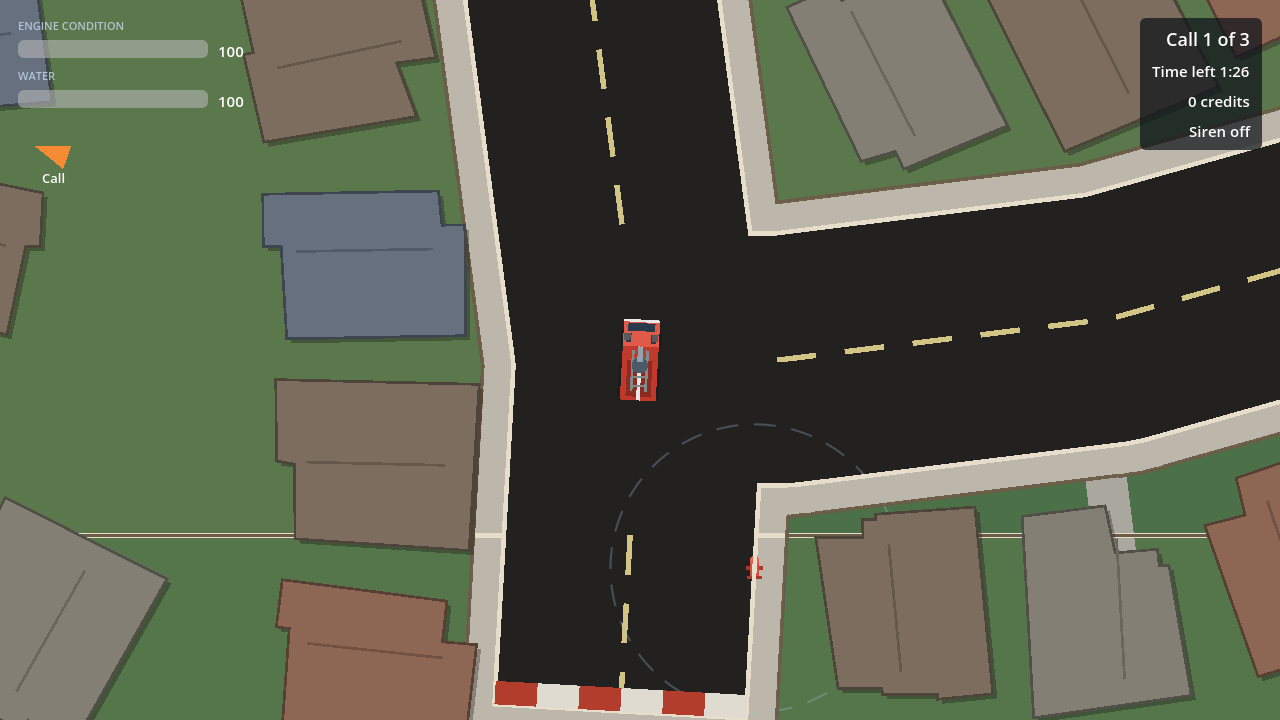
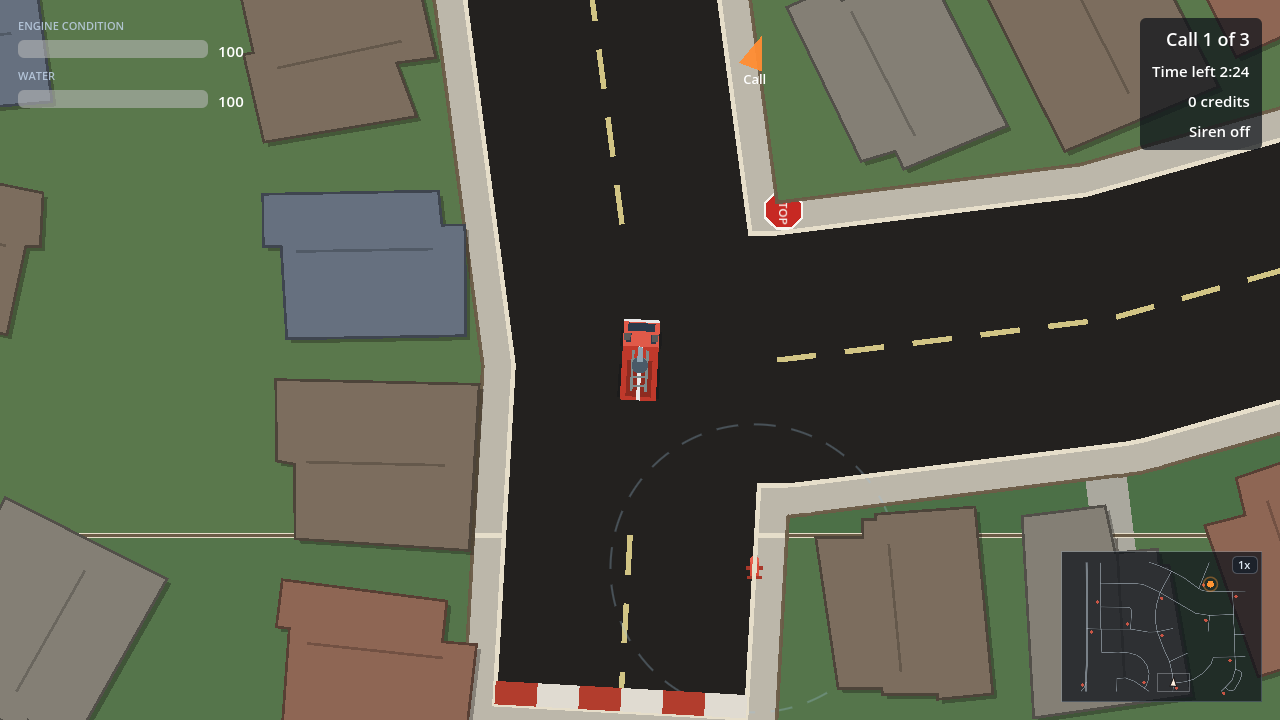
Frame time, the documents, and the screenshots the design side reads
Measured on this machine, windowed, on Windsor with the engine in the middle of
the map and the hard cap of 24 cars placed around it, 900 frames a run:

    no traffic          process 5.07 ms   physics 0.16 ms   total 5.23 ms
    traffic at the cap  process 6.43 ms   physics 0.78 ms   total 7.21 ms

1.98 ms, right on the budget, and 1.36 of it was the PROCESS side rather than
the simulation. That was one line: TrafficCar._process called queue_redraw()
every frame for every car. A car's body is drawn in its own local space, so
moving and turning it costs nothing to redraw; Godot keeps the canvas item and
changes its transform. Twenty-four cars' worth of polygons were being re-issued
sixty times a second for no visible difference at all. A car now redraws only
when its indicator lamps actually change state, which is about four times a
second while it is yielding and never while it is not.

After, over three runs:

    no traffic          total 5.81, 5.85, 6.34 ms
    traffic at the cap  total 5.77, 6.19, 6.51 ms

The process figure is noisy to about six tenths of a millisecond on this machine
and the delta is now inside that noise. The clean number is the physics side,
which is the simulation itself: 0.15 ms to 0.82-1.08 ms, so traffic at the cap
costs about 0.8 ms of physics and nothing measurable in process. Well under the
budget, from just under it.

STATUS.md is current, including the whole new balance table. It is 115 lines,
[…]

diff --git a/STATUS.md b/STATUS.md
@@ -19,14 +19,17 @@ default viewport, `canvas_items` stretch with `expand`. One autoload,
 | Lane network | `LaneGraph`: two directional lanes per segment, Bezier turns across junctions, U-turns only at dead ends. Both maps strongly connected. |
 | Junction control | Signals where the widest arm is tertiary or above or the junction has four arms; stop signs on the minor arms otherwise. Windsor 6 signals / 14 stop junctions, Elm Grove 16 signals. |
 | Signals | `TrafficSignals`: one clock for the whole map, opposing arms share a phase, green / amber / all-red. Pauses with the game. |
-| Driving | `TruckController`: arcade throttle and heading-relative steering, impact damage squared in the top of the speed range, camera shake on a hit. |
-| Water and fire | `WaterSystem` (tank, turret, stream, refill), `FireIncident` (health and escalation kept separate). |
+| Preemption | With the siren on inside 900 route units, a signalled junction ahead clears its cross arms and gives the engine's arm a green, four seconds later. Holds two seconds after the engine is past, then rejoins the cycle at the next phase. |
+| Traffic | `TrafficCar` and `TrafficSystem`: cars on the lane network at a class speed with a following gap, obeying lights, stop signs, priority to the right and the box junction rule. Solid to the engine, never to each other. Pull over for the siren, with one driver in ten flawed and one in five courteous, all from a per-shift seed. |
+| Driving | `TruckController`: arcade throttle and heading-relative steering, impact damage squared in the top of the speed range, camera shake on a hit. Hitting a car costs 0.4 of the wall rule and speed by how square the hit was. |
+| Water and fire | `WaterSystem` (tank, AUTOMATIC turret, stream, refill), `FireIncident` (health and escalation kept separate). No aim and no spray key; water is spent only into a fire. |
 | Hydrants | `Hydrant`: automatic hookup at a creep inside the ring, hose flies out, snaps when the truck drives away. No key. |
 | Session | `GameSession`, `DispatchManager`, `SaveManager`: three calls a shift, sequential dispatch, credits banked per call, one tank upgrade, save file. |
-| Screen | `GameUI` (HUD, home menu, map select, Data and Credits, results, shop), `Minimap` with its own zoom, `IncidentIndicator` off-screen arrow, `FollowCamera` north-up with lead and overscan. |
+| Screen | `GameUI` (HUD, home menu, map select, Data and Credits, results, shop, contact glyph), `Minimap` with its own zoom, `IncidentIndicator` off-screen arrow, `FollowCamera` north-up, leading two seconds of travel clamped to a third of the screen, with overscan. |
 | Tools | `import_osm.gd` (deterministic), `regenerate_map.gd`, `measure_scale.gd`, `validate_map.gd`, `capture_screens.gd`. |
 
-Not built: traffic, pedestrians, audio, any second real area, iPhone or touch.
+Not built: pedestrians, audio, any second real area, iPhone or touch, and any
+upgrade that changes how traffic behaves.
 
 ## Checks
 
@@ -34,8 +37,8 @@ Not built: traffic, pedestrians, audio, any second real area, iPhone or touch.
     godot --headless --path . --script res://tests/run_physics_tests.gd
     godot --headless --path . --script res://tools/validate_map.gd
 
-Green at 9cd79b0: 102 unit methods / 4,552 assertions, 211 physics checks,
-2 maps validated. Godot on this machine is
+Green on `task/traffic-and-turret`: 111 unit methods / 4,777 assertions, 288
+physics checks, 2 maps validated. Godot on this machine is
 `C:\Users\james\Downloads\Godot_v4.7.2-stable_win64.exe\Godot_v4.7.2-stable_win64_console.exe`.
 
 The screenshot pack must be run windowed, never headless:
@@ -48,62 +51,49 @@ The screenshot pack must be run windowed, never headless:
 |---|---|
 | Task | Traffic, signal preemption, automatic turret, handoff documents |
 | Owner | Claude Code |
-| Branch | `task/traffic-and-turret` |
+| Branch | `task/traffic-and-turret`, all six parts done, pull request open |
 | Base | `master` at 9cd79b0 |
+| Waiting on | James's playtest, then the merge |
 
 ## GameBalance values
 
-`GameBalance.gd` is the authority; this table is kept in step with it.
+`GameBalance.gd` is the authority and carries the reasoning for every number;
+this is the list, kept in step with it. Values the handoff specified are marked
+S, values invented here are marked I, and a value that has MOVED from what the
+handoff said carries both.
 
-| Value | Section | Source |
-|---|---|---|
-| `forward_max_speed` = 250.0 | Driving | Specified |
-| `reverse_max_speed` = 90.0 | Driving | Specified |
-| `acceleration` = 220.0 | Driving | Invented |
-| `reverse_acceleration` = 140.0 | Driving | Invented |
-| `brake_deceleration` = 320.0 | Driving | Invented |
-| `handbrake_deceleration` = 500.0 | Driving | Invented |
-| `drag` = 80.0 | Driving | Invented |
-| `steering_rate` = 2.4 | Driving | Invented |
-| `high_speed_steering_factor` = 0.45 | Driving | Invented |
-| `collision_damage_threshold` = 120.0 | Collision | Invented; 60 to 120 after James's Milestone 9 playtest |
-| `collision_damage_at_top_speed` = 48.0 | Collision | Invented; the cost curve is squared, not linear |
-| `collision_contact_cooldown` = 0.5 | Collision | Invented |
-| `tank_capacity` = 100.0 | Water | Specified |
-| `spray_flow_rate` = 10.0 | Water | Specified |
-| `stream_range` = 280.0 | Water | Specified as 120; rescaled to one road width after the playtest |
-| `fire_damage_per_second` = 20.0 | Water | Specified |
-| `fire_starting_health` = 100.0 | Water | Specified |
-| `suppression_per_water_unit` = 2.0 | Water | Derived |
-| `fire_escalation_duration` = 45.0 | Fire | Specified as 120; now the base, travel paid separately |
-| `escalation_travel_speed` = 110.0 | Fire | Invented |
-| `escalation_travel_allowance_max` = 150.0 | Fire | Invented |
-| `hydrant_hose_launch_time` = 0.6 | Hydrants | Invented |
-| `hydrant_hose_slack_distance` = 200.0 | Hydrants | Invented |
-| `hydrant_hose_snap_distance` = 260.0 | Hydrants | Invented |
-| `hydrant_rehook_delay` = 1.5 | Hydrants | Invented |
-| `hydrant_snap_message_time` = 1.0 | Hydrants | Invented |
-| `hydrant_refill_rate` = 50.0 | Hydrants | Specified as 25; doubled after a playtest |
-| `hydrant_max_hookup_speed` = 25.0 | Hydrants | Invented |
-| `hydrant_interaction_radius` = 160.0 | Hydrants | Invented; measured to the bodywork, not the centre |
-| `calls_per_shift` = 3 | Session | Specified |
-| `credits_per_call` = 100 | Session | Specified |
-| `shift_completion_bonus` = 50 | Session | Specified |
-| `tank_upgrade_cost` = 200 | Session | Specified |
-| `tank_upgrade_multiplier` = 1.25 | Session | Specified |
-| `truck_starting_condition` = 100.0 | Session | Invented |
-| `first_call_min_route` = 2000.0 | Session | Invented |
-| `camera_zoom_levels` = [0.9, 0.7, 0.55] | Camera | Invented; all three kept, Z cycles them |
-| `minimap_zoom_levels` = [1.0, 2.0, 4.0] | Camera | Invented; never touches the camera |
-| `signal_green_time` = 12.0 | Signals | Invented |
-| `signal_amber_time` = 3.0 | Signals | Invented |
-| `signal_all_red_time` = 1.0 | Signals | Invented |
+| Group | Values |
+|---|---|
+| Driving | S `forward_max_speed` 250, `reverse_max_speed` 90. I `acceleration` 220, `reverse_acceleration` 140, `brake_deceleration` 320, `handbrake_deceleration` 500, `drag` 80, `steering_rate` 2.4, `high_speed_steering_factor` 0.45 |
+| Collision | I `collision_damage_threshold` 120 (was 60, raised after the Milestone 9 playtest), `collision_damage_at_top_speed` 48 on a SQUARED curve, `collision_contact_cooldown` 0.5, `car_collision_damage_scale` 0.4, `car_shove_distance` 42 |
+| Water | S `tank_capacity` 100, `spray_flow_rate` 10, `fire_damage_per_second` 20, `fire_starting_health` 100, derived `suppression_per_water_unit` 2.0. S/I `stream_range` 280 (specified 120, rescaled to one road width). I `turret_rotation_rate` 2.4 rad/s |
+| Fire | S/I `fire_escalation_duration` 45 (specified 120, now the base with travel paid separately). I `escalation_travel_speed` 110, `escalation_travel_allowance_max` 150 |
+| Hydrants | S/I `hydrant_refill_rate` 50 (specified 25). I `hydrant_hose_launch_time` 0.6, `hydrant_hose_slack_distance` 200, `hydrant_hose_snap_distance` 260, `hydrant_rehook_delay` 1.5, `hydrant_snap_message_time` 1.0, `hydrant_max_hookup_speed` 25, `hydrant_interaction_radius` 160 (measured to the bodywork, not the centre) |
+| Session | S `calls_per_shift` 3, `credits_per_call` 100, `shift_completion_bonus` 50, `tank_upgrade_cost` 200, `tank_upgrade_multiplier` 1.25. I `truck_starting_condition` 100, `first_call_min_route` 2000 |
+| Camera | I `camera_zoom_levels` [0.9, 0.7, 0.55], `minimap_zoom_levels` [1.0, 2.0, 4.0], `FollowCamera.LOOK_AHEAD_SECONDS` 2.0, `MAX_LEAD_SCREENS` 1/3 |
+| Signals | I `signal_green_time` 12, `signal_amber_time` 3, `signal_all_red_time` 1, `signal_preempt_distance` 900 route units forward only, `signal_preempt_resume_hold` 2 |
+| Traffic, how many | I `traffic_max_vehicles` 24, densities per 1,000 lane units 3.40 major / 1.15 residential / 0.40 court (set by measuring Windsor, not by arithmetic), `traffic_spawn_screens` 1.5, `traffic_despawn_factor` 1.35 |
+| Traffic, how they drive | I speeds 165 / 125 / 85, `traffic_acceleration` 130, `traffic_braking` 260, `traffic_emergency_braking` 420, `traffic_following_gap` 42, `traffic_stop_sign_wait` 0.9 |
+| Traffic, the siren | I `traffic_perceive_distance` 900, reaction 0.5 to 2.0 s and clear delay 1.0 to 2.0 s per driver from the shift seed, `traffic_yield_offset` 62 over `traffic_yield_move_time` 1.0, `traffic_imperfect_share` 0.1, `traffic_courtesy_share` 0.2, `traffic_late_notice_distance` 300 |
 
 ## Known issues
 
+- **Nothing on this branch has been played.** Every number is headless or from a
+  rendered still. Whether the traffic feels like traffic, whether the preempt
+  delay makes arriving fast dangerous rather than merely annoying, and whether
+  the automatic turret takes something away from the fighting are James's to
+  judge.
+- An engine parked next to a signalled junction with its siren left on holds
+  that junction's green for as long as it stands there, and the cross traffic
+  queues. That is what a real preemption does and it is self-inflicted, but no
+  timeout exists and nobody has watched what a two minute one looks like.
+- A yielding car pulls onto the sidewalk strip and nothing checks that the strip
+  is there. On a road with houses hard against the kerb it will sit half in a
+  fence. Neither shipped map has one, and nothing looks for one.
 - Milestone 9 (lanes, signal heads, playtest fixes) has no narrative in
   `docs/history/`. Its record is its three commit messages: fef6575, 87dd983,
-  9cd79b0.
+  9cd79b0. Milestone 10, this branch, has its record in its six commit messages
+  and in the pull request.
 - Nine of Windsor's 81 driveways overlap their own house footprint by more than
   a quarter of the strip. The threshold has not been tuned.
 - Four two-arm bends on Windsor still have junction fills reaching the map edge.
@@ -118,6 +108,8 @@ The screenshot pack must be run windowed, never headless:
 
 ## Next action
 
-Playtest the branch build on Windsor: drive to a call with the siren on and
-watch whether traffic yields and whether the preempt delay makes arriving fast
-dangerous.
+Playtest `task/traffic-and-turret` on Windsor, in this order: drive to a call
+with the siren OFF and see what traffic does when it does not care about you;
+turn it on and drive the same stretch; then arrive at a signalled junction flat
+out and find out whether the four second preempt delay is a reason to slow down.
+Then merge, or say what is wrong.

diff --git a/docs/design/REQUESTS.md b/docs/design/REQUESTS.md
@@ -42,3 +42,41 @@ background, `logo-icon-180.png`, `logo-wordmark.png` (horizontal, for the home
 menu), and `logo-mono.png` (single colour). Add a short logo section to the
 spec: geometry of the mark in words, hex colours, and the typeface with its
 licence.
+
+## R-003: Car body colours and signal head style, v2.2 (open)
+
+Traffic is built and on the road on both maps. It is drawn from placeholder
+values chosen to be muted and out of the way, and it should come from the
+palette instead.
+
+What is wanted, as an update to `tailboard-visual-spec.md` (version 2.2) and one
+reference image:
+
+- **Car body colours.** Eight flat opaque fills, muted and related, none of them
+  a saturated primary and none of them close to the engine's red: a street shows
+  a dozen cars at once and the engine has to be the loudest thing on it. Give
+  the hex values as an ordered list; they are picked by hashing a per-car number,
+  so the order is the only thing that matters about them. The current
+  placeholders are in `scripts/TrafficCar.gd` as `BODY_COLORS`.
+- **Car anatomy.** A car is 62 by 27 world units and is drawn as a body
+  rectangle, a thin outline, a cabin rectangle, and for the pickup a darker bed
+  panel. There are four silhouettes: saloon, hatchback, pickup, van, told apart
+  by where the cabin sits and how much of the body it takes, because at the
+  widest zoom a car is about fifteen pixels long. State the outline colour and
+  width, the cabin fill, and the cabin rectangle for each of the four as a
+  fraction of the body.
+- **Indicators and hazards.** Amber lamps at the corners, blinking. State the
+  lit and unlit hex, the lamp radius in world units, and the blink rate. A
+  yielding car shows one side; a car the engine has hit shows all four.
+- **Signal head style, against the same palette.** The head is a bar ACROSS the
+  road with three lamps in a row, red on the approaching driver's left. Confirm
+  or replace the housing, outline, lamp and halo colours in
+  `scripts/TrafficSignals.gd`, and say what an amber during a siren preemption
+  should look like if it should read differently from an ordinary amber.
+
+Files: `tailboard-visual-spec.md` (version 2.2 at the top),
+`images/traffic-v2.2.png` showing the four car shapes at 1:1 and at the widest
+zoom, with the indicator lit and unlit.
+
+Real screenshots of the built traffic are in `docs/screenshots/selected/`:
+`38_traffic_yielding.png`, `41_traffic_elm_grove.png`, `39_preempt_junction.png`.
